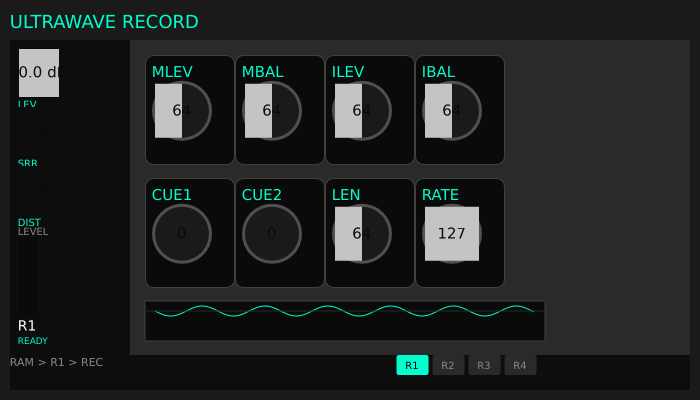
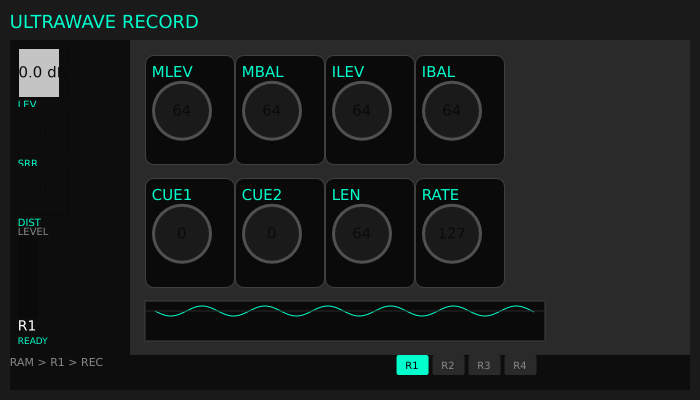
fix(gui): prevent knob fill background at max values
Add .knob .fill CSS rule with transparent background
Fixes END knob (value 127) showing as gray box instead of circular control
Applied to both play_editor.rs and record_editor.rs

Relates to: ultrawave-38c

diff --git a/src/standalone/play_editor.rs b/src/standalone/play_editor.rs
@@ -72,7 +72,14 @@ pub fn create(
             .knob:hover {
                 border-color: #00ffcc;
             }
+            .knob slider {
+                height: 60px;
+                width: 60px;
+            }
             .knob .track {
+                background-color: transparent;
+            }
+            .knob .fill {
                 background-color: transparent;
             }
             .knob .thumb {
@@ -81,6 +88,10 @@ pub fn create(
                 height: 8px;
                 border-radius: 50%;
                 border: 1px solid #666666;
+            }
+            .knob label {
+                background-color: transparent;
+                color: #ffffff;
             }
             .knob .thumb:hover {
                 background-color: #00cc99;
@@ -177,7 +188,10 @@ pub fn create(
                     HStack::new(cx, |cx| {
                         VStack::new(cx, |cx| {
                             Label::new(cx, "PTCH").class("knob-label");
-                            ParamSlider::new(cx, EditorData::params, |p| &p.pitch).class("knob");
+                            ParamSlider::new(cx, EditorData::params, |p| &p.pitch)
+                                .class("knob")
+                                .width(Pixels(60.0))
+                                .height(Pixels(60.0));
                         })
                         .class("knob-container");
 
@@ -195,9 +209,7 @@ pub fn create(
 
                         VStack::new(cx, |cx| {
                             Label::new(cx, "BRR").class("knob-label");
-                            Element::new(cx)
-                                .class("knob")
-                                .background_color(Color::rgb(26, 26, 26));
+                            ParamSlider::new(cx, EditorData::params, |p| &p.srr).class("knob");
                         })
                         .class("knob-container");
                     });
@@ -211,7 +223,10 @@ pub fn create(
 
                         VStack::new(cx, |cx| {
                             Label::new(cx, "END").class("knob-label");
-                            ParamSlider::new(cx, EditorData::params, |p| &p.end).class("knob");
+                            ParamSlider::new(cx, EditorData::params, |p| &p.end)
+                                .class("knob")
+                                .width(Pixels(60.0))
+                                .height(Pixels(60.0));
                         })
                         .class("knob-container");
 

diff --git a/src/standalone/record_editor.rs b/src/standalone/record_editor.rs
@@ -75,6 +75,9 @@ pub fn create(
             .knob .track {
                 background-color: transparent;
             }
+            .knob .fill {
+                background-color: transparent;
+            }
             .knob .thumb {
                 background-color: #cccccc;
                 width: 8px;
